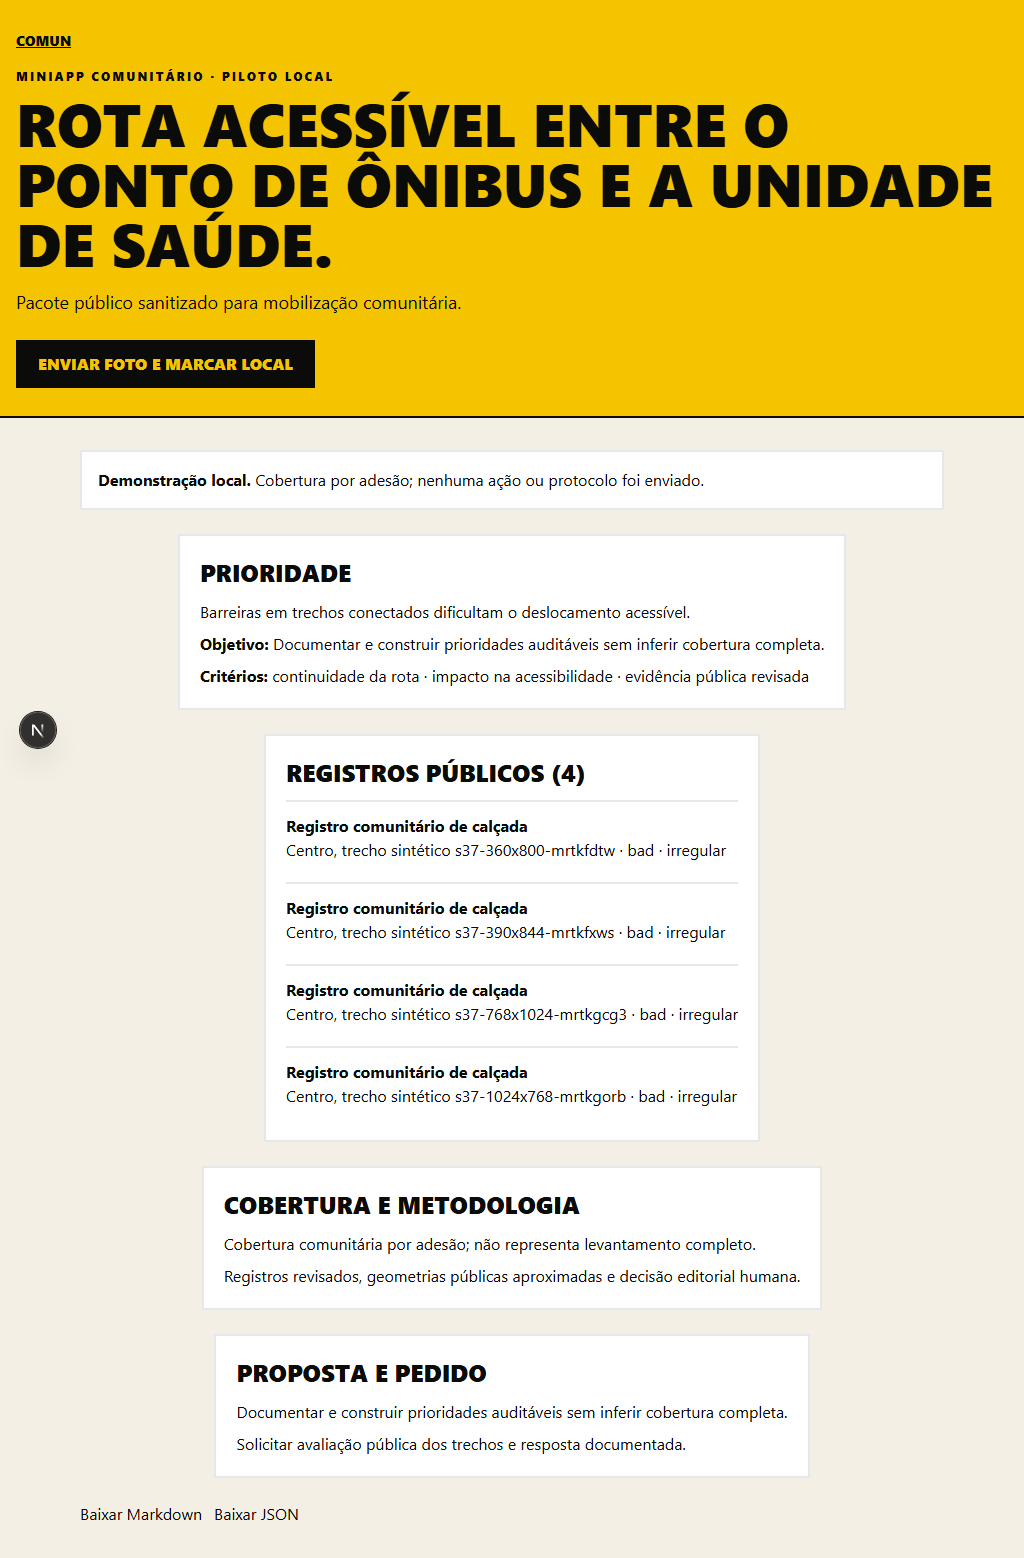
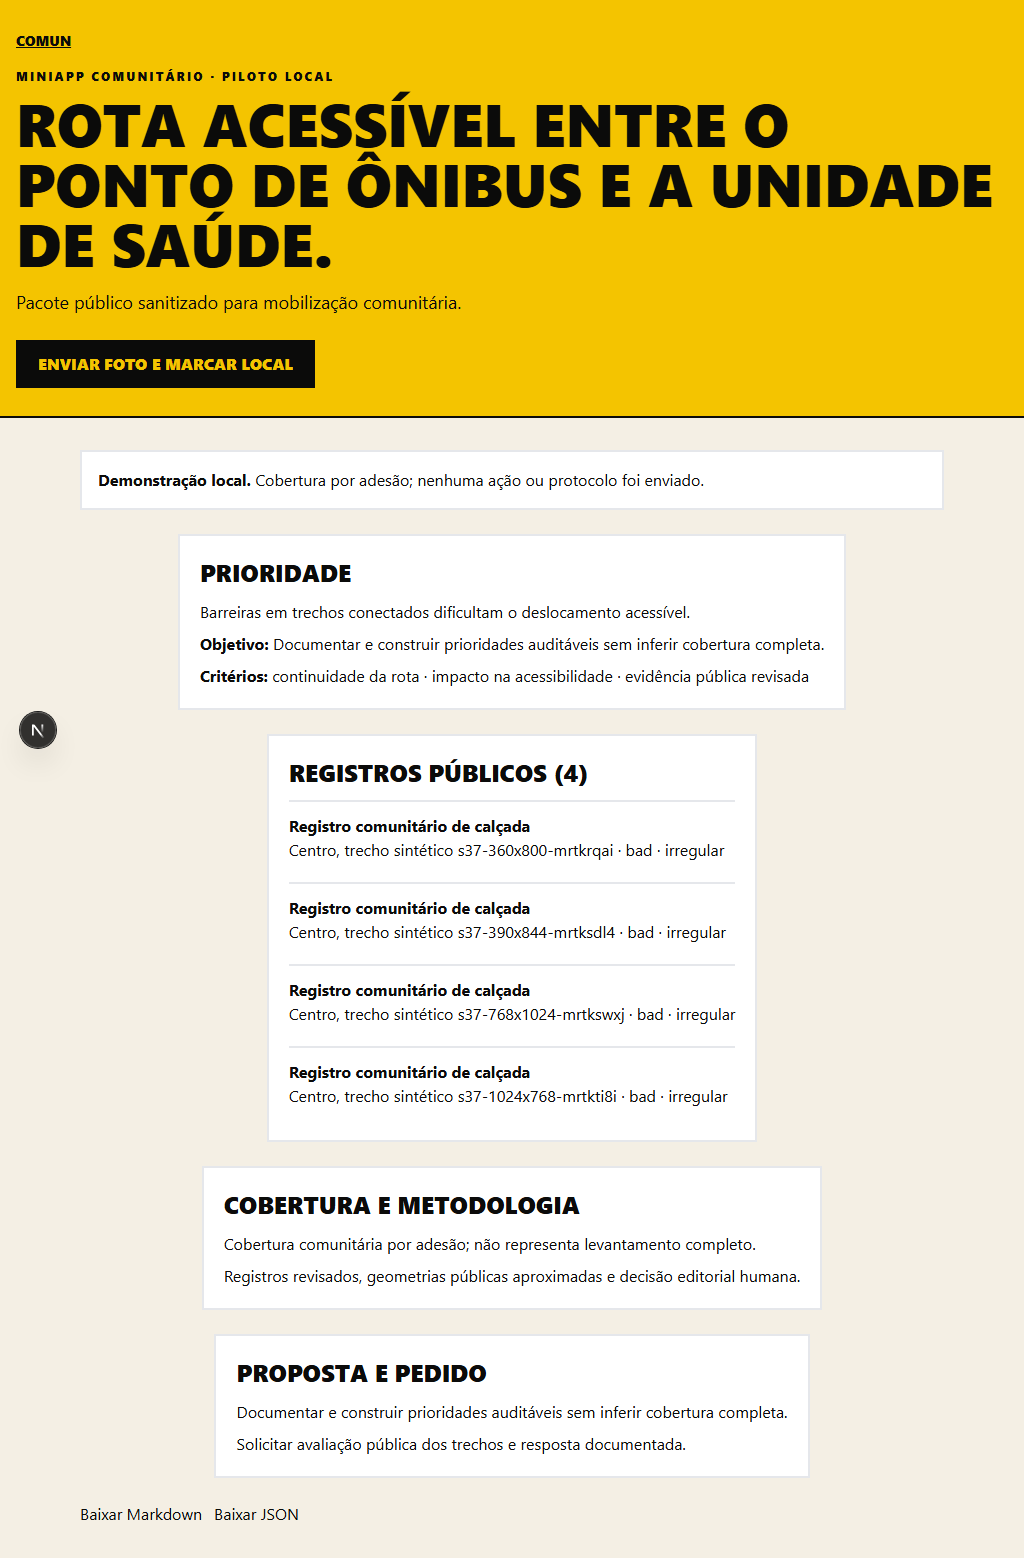
test: estende jornada das calcadas ao resultado

Changed region(s): [[0.25, 0.4929, 0.7188, 0.7086]]

diff --git a/tests/comun-integral-experience/visitor-flow.spec.ts b/tests/comun-integral-experience/visitor-flow.spec.ts
@@ -3,7 +3,7 @@ const password="comun-primeira-participacao-34-2",adminEmail="s37-admin@comun.te
 const db=()=>createClient(process.env.NEXT_PUBLIC_SUPABASE_URL!,process.env.SUPABASE_SERVICE_ROLE_KEY!,{auth:{persistSession:false}});
 async function noCritical(page:any){const audit=await new AxeBuilder({page}).analyze();expect(audit.violations.filter((x:any)=>["serious","critical"].includes(x.impact??""))).toEqual([]);expect(await page.evaluate(()=>document.documentElement.scrollWidth<=document.documentElement.clientWidth)).toBe(true)}
 async function login(page:any,email:string,path:string,admin=false){await page.context().clearCookies();await page.goto(admin?`/comun/admin/login?redirectTo=${encodeURIComponent(path)}`:`/comun/entrar?returnTo=${encodeURIComponent(path)}`);await page.getByLabel("E-mail").fill(email);await page.getByLabel("Senha").fill(password);await page.getByRole("button",{name:"Entrar"}).click();await expect(page).toHaveURL(new RegExp(path.replace(/[.*+?^${}()|[\]\\]/g,"\\$&")))}
-test("jornada autenticada canônica chega à publicação, observação, prioridade e pacote",async({page},testInfo)=>{const runId=`s37-${testInfo.project.name}-${Date.now().toString(36)}`,email=`${runId}@comun.test`,location=`Centro, trecho sintético ${runId}`;
+test("jornada autenticada canônica chega à publicação, observação, prioridade, pacote e resultado",async({page},testInfo)=>{const runId=`s37-${testInfo.project.name}-${Date.now().toString(36)}`,email=`${runId}@comun.test`,location=`Centro, trecho sintético ${runId}`,resultTitle=`Resultado parcial ${runId}`;
   await page.goto("/comun/calcadas");await expect(page.getByRole("heading",{name:"Mapa das Calçadas"})).toBeVisible();await page.getByRole("link",{name:"Enviar foto e marcar local"}).click();await expect(page).toHaveURL(/\/comun\/entrar\?returnTo=/);await page.getByRole("link",{name:/Criar conta/i}).click();await page.getByLabel("Nome de exibição").fill(`Pessoa ${runId}`);await page.getByLabel("E-mail").fill(email);await page.getByLabel("Senha",{exact:true}).fill(password);await page.getByLabel("Confirmar senha").fill(password);await page.getByLabel(/Aceito os termos/).check();await page.getByLabel(/política de privacidade/).check();await page.getByRole("button",{name:"Criar conta"}).click();await expect(page).toHaveURL(/\/comun\/onboarding\?returnTo=/);await page.getByRole("button",{name:/Salvar território e continuar/}).click();await expect(page).toHaveURL(/\/comun\/mapa\/contribuir\?origem=calcadas/);
   await page.setInputFiles('input[name="photo"]',".local/comun-integral/calcada-fixture.jpg");await page.getByRole("button",{name:"Continuar"}).click();await page.getByRole("button",{name:"Mapa local para marcar o ponto"}).click({position:{x:180,y:120}});await page.getByLabel("Bairro ou referência pública").fill(location);await page.getByRole("button",{name:"Continuar"}).click();await page.getByText("Ruim",{exact:true}).click();await page.getByLabel("Problema principal").selectOption("irregular");await page.getByLabel("Descrição opcional").fill(`Trecho sintético ${runId} com piso irregular.`);await page.getByRole("button",{name:"Continuar"}).click();await noCritical(page);await page.screenshot({path:`reports/screenshots/sprint-37-integral-revisao-${testInfo.project.name}.png`,fullPage:true});await page.getByRole("button",{name:/Enviar contribuição/}).click();await expect(page.getByRole("heading",{name:/Recebemos seu registro/})).toBeVisible();await page.getByRole("link",{name:"Ver em Minha área"}).click();await expect(page.getByText(/em revisão/i).first()).toBeVisible();
   const service=db(),{data:users}=await service.auth.admin.listUsers({page:1,perPage:1000}),user=users?.users.find(x=>x.email===email);expect(user).toBeTruthy();const{data:record}=await service.from("comun_sidewalk_records").select("id,slug,private_geometry_geojson,public_geometry_geojson,visibility,status").eq("member_user_id",user!.id).single();if(!record)throw new Error("Registro participante ausente");expect(record.private_geometry_geojson).toBeTruthy();expect(record.public_geometry_geojson).toBeNull();expect(record.visibility).toBe("internal");
@@ -11,6 +11,7 @@ test("jornada autenticada canônica chega à publicação, observação, priorid
   await page.goto("/comun/calcadas");await page.getByRole("button",{name:"Lista",exact:true}).click();await expect(page.getByText(location)).toBeVisible();await page.goto(`/comun/calcadas/registros/${published.slug}`);await expect(page.getByText(location)).toBeVisible();
   await login(page,email,`/comun/calcadas/registros/${published.slug}`);await page.getByLabel("Complemento privado opcional").fill(`Observação ${runId}`);const sameObservation=page.getByRole("radio",{name:"Continua igual"});await sameObservation.check();await expect(sameObservation).toBeChecked();await page.getByRole("button",{name:"Enviar para revisão"}).click();let observation:{id:string;status:string}|null=null;await expect.poll(async()=>{const{data}=await service.from("comun_sidewalk_observations").select("id,status").eq("record_id",record.id).eq("status","pending").maybeSingle();observation=data;return data?.status??null},{message:"observação persistida como pendente"}).toBe("pending");if(!observation)throw new Error("Observação pendente ausente");await page.reload();await expect(page.getByText("Nova observação comunitária")).toHaveCount(0);
   await login(page,adminEmail,"/comun/admin/calcadas",true);const observationCard=page.locator("article").filter({hasText:`Observação ${runId}`});await observationCard.getByRole("button",{name:"Aprovar",exact:true}).click();await expect.poll(async()=>{const{data}=await service.from("comun_sidewalk_observations").select("status").eq("id",observation!.id).single();return data?.status??null},{message:"observação moderada como aprovada"}).toBe("approved");await page.goto(`/comun/calcadas/registros/${published.slug}`);await expect(page.getByText("Nova observação comunitária")).toBeVisible();
-  await login(page,adminEmail,"/comun/admin/calcadas/prioridade",true);await page.locator(`input[name="record_ids"][value="${record.id}"]`).check();await page.getByRole("button",{name:"Abrir roda e publicar prioridade"}).click();await expect.poll(async()=>{const{data}=await service.from("comun_sidewalk_priorities").select("id").eq("record_id",record.id).eq("status","approved").maybeSingle();return data?.id??null},{message:"prioridade publicada"}).not.toBeNull();const{data:priority}=await service.from("comun_sidewalk_priorities").select("id").eq("record_id",record.id).eq("status","approved").single();if(!priority)throw new Error("Prioridade ausente");await page.goto(`/comun/calcadas/pressao/${priority.id}`);await expect(page.getByRole("heading",{name:/Rota acessível/})).toBeVisible();await noCritical(page);const json=await page.request.get(`/comun/calcadas/pressao/${priority.id}/export?formato=json`),markdown=await page.request.get(`/comun/calcadas/pressao/${priority.id}/export?formato=md`);expect(json.ok()).toBe(true);const jsonBody=await json.text();expect(JSON.parse(jsonBody).schemaVersion).toBe("1.0");expect(markdown.ok()).toBe(true);for(const body of [jsonBody,await markdown.text()])expect(body).not.toMatch(/private_geometry|object_key|member_user_id|service_role|originals\//i);await page.screenshot({path:`reports/screenshots/sprint-37-integral-pacote-${testInfo.project.name}.png`,fullPage:true})
+  await login(page,adminEmail,"/comun/admin/calcadas/prioridade",true);await page.locator(`input[name="record_ids"][value="${record.id}"]`).check();await page.getByRole("button",{name:"Abrir roda e publicar prioridade"}).click();await expect.poll(async()=>{const{data}=await service.from("comun_sidewalk_priorities").select("id").eq("record_id",record.id).eq("status","approved").maybeSingle();return data?.id??null},{message:"prioridade publicada"}).not.toBeNull();const{data:priority}=await service.from("comun_sidewalk_priorities").select("id").eq("record_id",record.id).eq("status","approved").single();if(!priority)throw new Error("Prioridade ausente");await page.goto(`/comun/calcadas/pressao/${priority.id}`);await expect(page.getByRole("heading",{name:/Rota acessível/})).toBeVisible();await noCritical(page);const json=await page.request.get(`/comun/calcadas/pressao/${priority.id}/export?formato=json`),markdown=await page.request.get(`/comun/calcadas/pressao/${priority.id}/export?formato=md`);expect(json.ok()).toBe(true);const jsonBody=await json.text();expect(JSON.parse(jsonBody).schemaVersion).toBe("1.0");expect(markdown.ok()).toBe(true);for(const body of [jsonBody,await markdown.text()])expect(body).not.toMatch(/private_geometry|object_key|member_user_id|service_role|originals\//i);await page.screenshot({path:`reports/screenshots/sprint-37-integral-pacote-${testInfo.project.name}.png`,fullPage:true});
+  await login(page,adminEmail,"/comun/admin/organizacao",true);const{data:canonicalPauta}=await service.from("comun_pauta_spaces").select("id").eq("slug","calcadas-em-circulacao").single();if(!canonicalPauta)throw new Error("Pauta canônica ausente");const resultForm=page.locator("form").filter({has:page.getByRole("heading",{name:"Registrar resultado"})});await resultForm.getByLabel("Pauta").selectOption(canonicalPauta.id);await resultForm.getByLabel("Título").fill(resultTitle);await resultForm.getByLabel("result_type").selectOption("partial_change");await resultForm.getByLabel("Resumo público").fill("Mudança parcial registrada em ensaio local; o problema não foi marcado como resolvido.");await resultForm.getByLabel("verification_status").selectOption("verified");await resultForm.getByLabel("visibility").selectOption("public");await resultForm.getByRole("button",{name:"Salvar"}).click();await expect.poll(async()=>{const{data}=await service.from("comun_hub_results").select("id,pauta_id,result_type,verification_status,visibility").eq("title",resultTitle).maybeSingle();return data?.result_type??null},{message:"resultado parcial registrado pela interface"}).toBe("partial_change");await page.goto("/comun/calcadas#resultados");await expect(page.getByText(resultTitle)).toBeVisible();await noCritical(page)
 });
 test("retorno hostil é rejeitado",async({page})=>{await page.goto("/comun/criar-conta?returnTo=https%3A%2F%2Fevil.example");await expect(page.locator('input[name="returnTo"]')).toHaveValue("/comun/minha-participacao")});

diff --git a/reports/comun-fechamento-integral-calcadas-sprint-37.md b/reports/comun-fechamento-integral-calcadas-sprint-37.md
@@ -14,23 +14,23 @@
 - prioridade, roda, síntese, ação e tarefa pela interface de facilitador;
 - pacote sanitizado em página pública local, Markdown e JSON versionado;
 - lint, typecheck, build e 244 testes unitários;
-- E2E canônico autenticado, com a mesma fixture descartável, da criação de conta ao pacote de pressão público e sanitizado.
+- E2E canônico autenticado, com a mesma fixture descartável, da criação de conta ao pacote de pressão público e ao resultado parcial verificado.
 
 ## Aberto
 
-- extensão do E2E único do pacote até protocolo, resposta, resultado e memória;
-- protocolo, resposta, resultado e memória fixture operados integralmente pela interface;
+- extensão do E2E único do pacote até protocolo, resposta e memória;
+- protocolo, resposta e memória fixture operados integralmente e relacionados pela interface;
 - performance integral contra `next start` com tabela completa;
 - reset duplo, regressões históricas e production-like integral;
 - gate humano com três participantes externos (atual: 0/3).
 
 ## Prova autenticada atualizada — 20/07/2026
 
-A jornada canônica passou 10/10 em 360×800, 390×844, 768×1024, 1024×768 e 1366×768. O mesmo `runId` descartável percorreu cadastro, onboarding, JPEG fixture, ponto manual, envio privado, Minha área, moderação editorial, geometria pública aproximada, ficha pública, nova observação pré-moderada, aprovação da observação, prioridade e pacote de pressão em página, JSON e Markdown. O pacote foi verificado contra campos privados e o Axe não encontrou violações sérias ou críticas. A suíte encerrou com `COMUN_TEST_FIXTURES_CLEAN`.
+A jornada canônica passou 10/10 em 360×800, 390×844, 768×1024, 1024×768 e 1366×768. O mesmo `runId` descartável percorreu cadastro, onboarding, JPEG fixture, ponto manual, envio privado, Minha área, moderação editorial, geometria pública aproximada, ficha pública, nova observação pré-moderada, aprovação da observação, prioridade, pacote de pressão em página/JSON/Markdown e registro de resultado parcial verificado pela Sala de Organização. O resultado foi ligado à pauta canônica, apareceu em `/comun/calcadas` e não marcou o registro como resolvido. O pacote foi verificado contra campos privados e o Axe não encontrou violações sérias ou críticas. A suíte encerrou com `COMUN_TEST_FIXTURES_CLEAN`.
 
 Durante a prova foi corrigida uma falha real de atualização: a moderação da observação não revalidava a ficha pública do registro. A ação agora verifica erros de persistência e revalida também `/comun/calcadas/registros/[slug]`.
 
-O percurso ainda termina no pacote. Protocolo, resposta, resultado e memória não foram operados nesta mesma execução de navegador; por isso o fechamento integral permanece **NO-GO** e o marcador final não foi emitido. O gate humano segue 0/3.
+O percurso ainda não produz protocolo, resposta e memória relacionados pela interface. A auditoria confirmou que protocolos oficiais só podem nascer de `comun_reports`, enquanto a prioridade/ação das calçadas não possui associação operacional disponível nessa interface; também não existe ação administrativa para criar `comun_sidewalk_cycle_memories`. Criar essas superfícies seria nova funcionalidade, proibida neste fechamento. Por isso o fechamento integral permanece **NO-GO** e o marcador final não foi emitido. O gate humano segue 0/3.
 
 Não emitir `COMUN_SIDEWALK_REAL_MAP_LOCAL_OK` enquanto qualquer item acima permanecer aberto.
 

diff --git a/reports/release-readiness-sprint-37.md b/reports/release-readiness-sprint-37.md
@@ -40,3 +40,5 @@ Atualização seguinte: prioridade/mobilização mínima e os três formatos do 
 Atualização da prova: a regressão do teste autenticado causada por seletores obsoletos foi corrigida. A jornada participante passou 10/10 nas cinco larguras e confirmou cleanup. O readiness integral continua NO-GO porque a execução ainda termina em Minha área/pauta e não percorre a mesma fixture até memória.
 
 Atualização de 20/07/2026: a jornada foi ampliada e passou novamente 10/10 nas cinco larguras, agora cobrindo pela interface a criação autenticada, moderação editorial, publicação com localização aproximada, observação pré-moderada, aprovação, prioridade e pacote público sanitizado em HTML, JSON e Markdown. Lint e typecheck passaram; 244/244 testes unitários passaram. Foi corrigida a revalidação da ficha pública após moderar observações. O estado integral continua **NO-GO**: a mesma execução ainda não alcança protocolo, resposta, resultado e memória, a medição integral em `next start` permanece aberta e o gate humano está em 0/3.
+
+Continuação local: o cenário passou 10/10 novamente após acrescentar o registro de resultado parcial verificado pela Sala de Organização, associado à pauta canônica e exibido no miniapp sem declarar resolução. Protocolo/resposta permanecem dependentes de um relato oficial sem vínculo de interface com a prioridade, e não há ação administrativa de criação da memória específica do ciclo. Como a Sprint 37 proíbe funcionalidade nova, essas lacunas foram mantidas explícitas e o marcador integral continua bloqueado.
